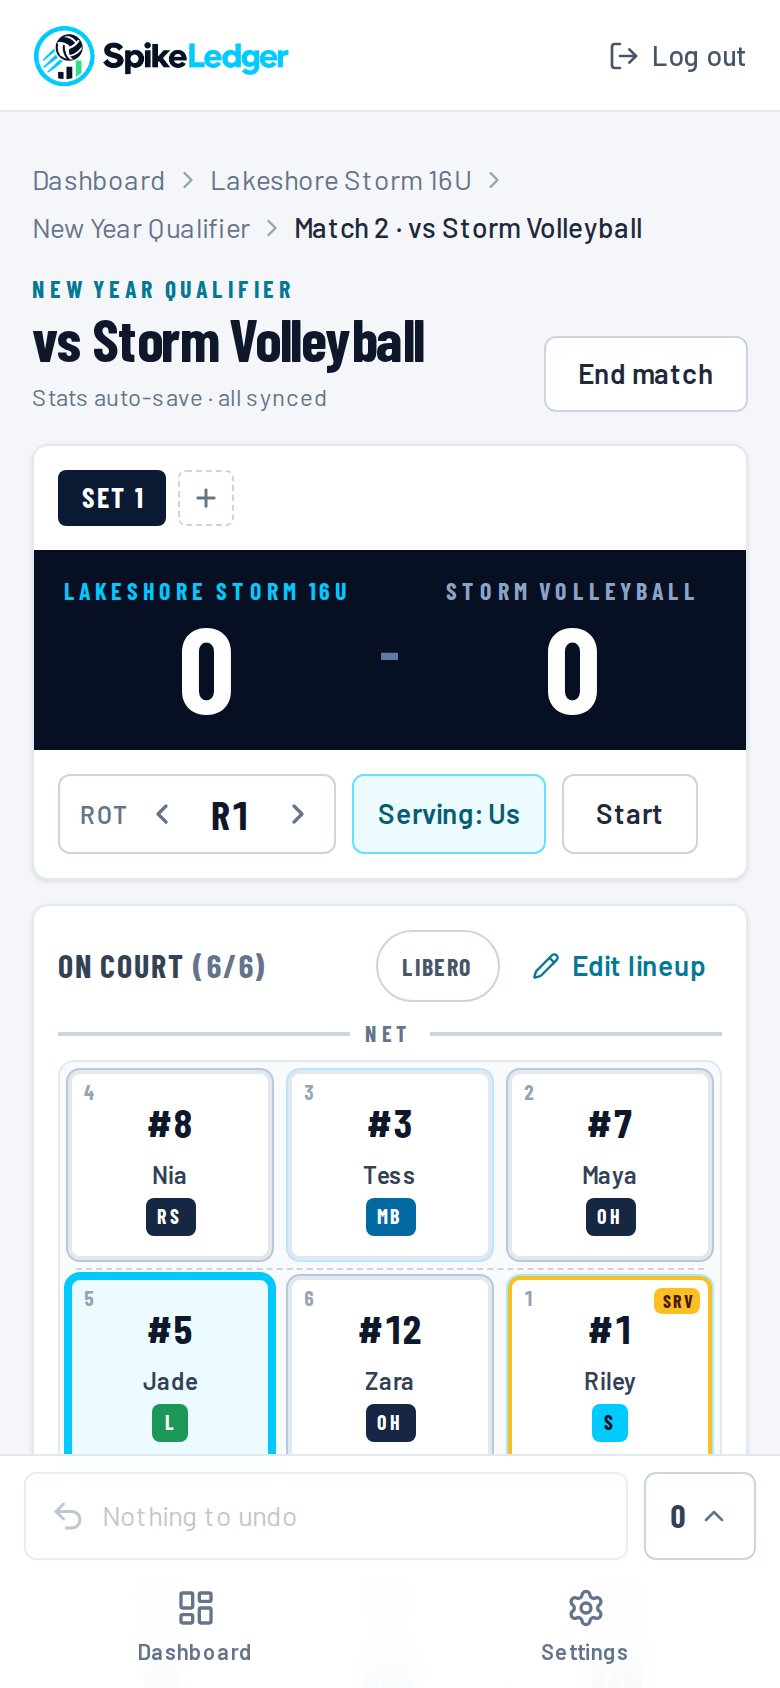
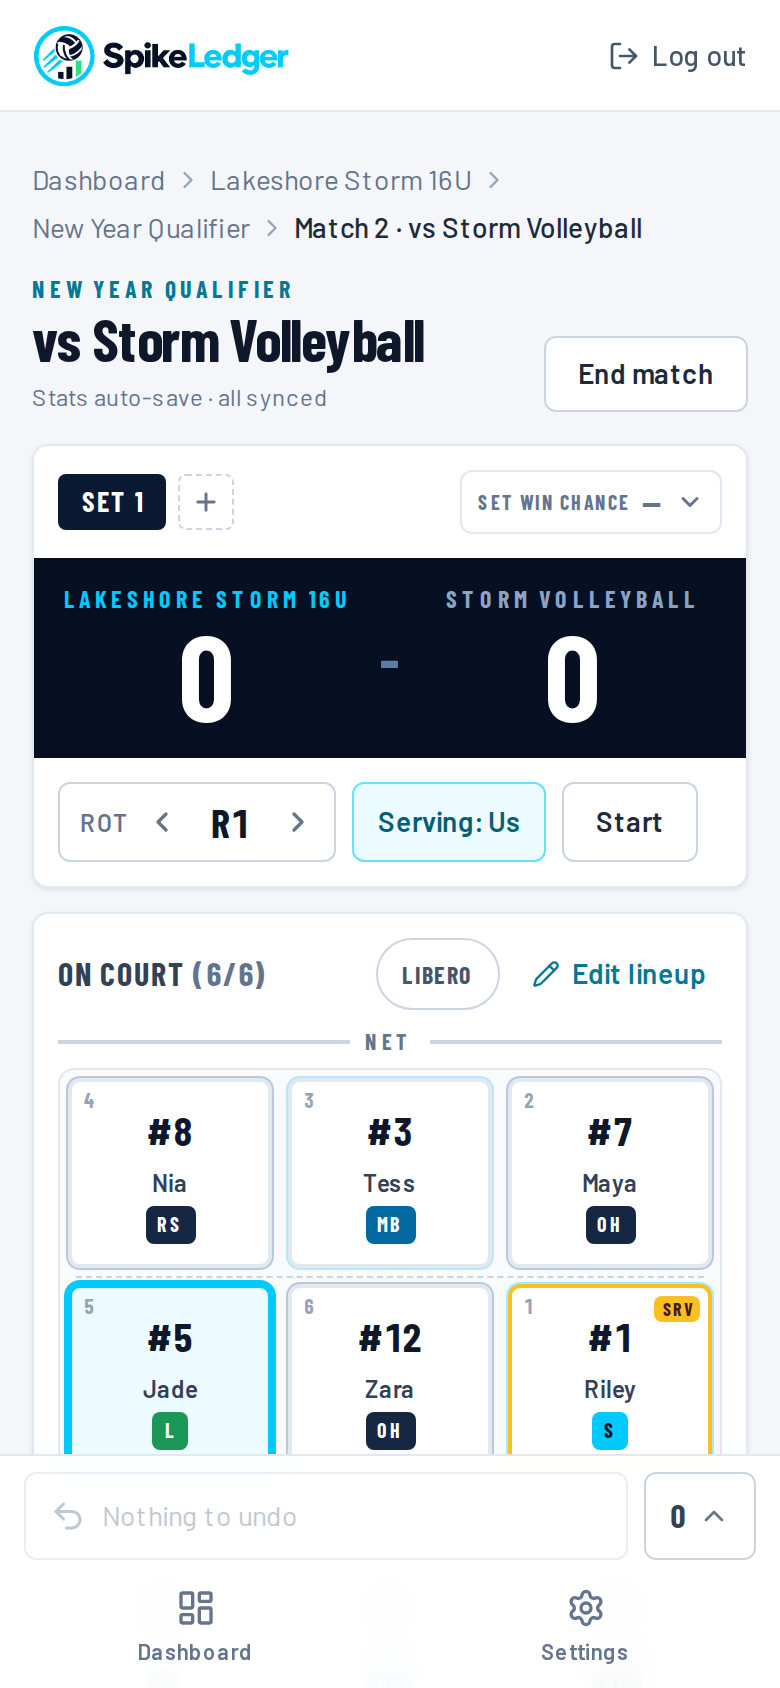
Carry the cyan/green palette to screens added after it
The palette commit was written before the parent live view, set win
probability and match alerts landed, so those screens still used orange
(which falls back to Tailwind's stock orange once the brand orange scale
is gone). Same rules as the original sweep: orange -> cyan with accent text
on white at cyan-700, the logo cyan as text on navy, emerald -> the brand
green. Landing page screenshots re-captured from the current app, so the
courtside shot includes the set win chance pill.

Claude-Session: https://claude.ai/code/session_0143Fh9qswWB5tCn9ztmFhiu

diff --git a/src/app/(parent)/parent/player/[playerId]/page.tsx b/src/app/(parent)/parent/player/[playerId]/page.tsx
@@ -96,7 +96,7 @@ export default async function ParentPlayerPage({ params }: { params: { playerId:
                   <tr>
                     <th className="eyebrow px-5 py-2 text-slate-500">Stat</th>
                     <th className="eyebrow px-3 py-2 text-right text-slate-500">Team avg</th>
-                    <th className="eyebrow px-5 py-2 text-right text-orange-700">{player.name.split(" ")[0]}</th>
+                    <th className="eyebrow px-5 py-2 text-right text-cyan-700">{player.name.split(" ")[0]}</th>
                   </tr>
                 </thead>
                 <tbody className="divide-y divide-slate-100">
@@ -112,7 +112,7 @@ export default async function ParentPlayerPage({ params }: { params: { playerId:
                       <td
                         className={cn(
                           "stat-number px-5 py-2.5 text-right text-lg font-bold",
-                          row.childWins === null ? "text-slate-900" : row.childWins ? "text-emerald-700" : "text-slate-900",
+                          row.childWins === null ? "text-slate-900" : row.childWins ? "text-green-700" : "text-slate-900",
                         )}
                       >
                         {row.child}
@@ -128,8 +128,8 @@ export default async function ParentPlayerPage({ params }: { params: { playerId:
           {view.parentFriendly && (
             <section className="mt-6 rounded-lg bg-navy-900 p-6 text-white">
               <div className="flex items-center gap-2">
-                <Lightbulb size={18} strokeWidth={2} className="text-orange-300" aria-hidden />
-                <span className="eyebrow text-orange-300">In plain English</span>
+                <Lightbulb size={18} strokeWidth={2} className="text-cyan-500" aria-hidden />
+                <span className="eyebrow text-cyan-500">In plain English</span>
               </div>
               <p className="mt-3 text-lg leading-relaxed">{view.parentFriendly}</p>
               <p className="mt-3 text-xs text-navy-300">
@@ -159,14 +159,14 @@ export default async function ParentPlayerPage({ params }: { params: { playerId:
               <ol className="mt-3 grid gap-3 sm:grid-cols-3">
                 {view.improvementAreas.map((area, i) => (
                   <li key={i} className="card p-4">
-                    <div className="stat-number text-3xl font-bold leading-none text-orange-500">
+                    <div className="stat-number text-3xl font-bold leading-none text-cyan-700">
                       {String(i + 1).padStart(2, "0")}
                     </div>
                     <div className="mt-2 font-display text-xl font-bold leading-tight text-slate-900">{area.metric}</div>
                     {(area.current !== "-" || area.target !== "-") && (
                       <div className="mt-1 text-xs text-slate-500">
                         now <span className="font-semibold text-slate-900">{area.current}</span> · goal{" "}
-                        <span className="font-semibold text-emerald-700">{area.target}</span>
+                        <span className="font-semibold text-green-700">{area.target}</span>
                       </div>
                     )}
                     <p className="mt-2 text-sm leading-relaxed text-slate-600">{area.detail}</p>
@@ -175,7 +175,7 @@ export default async function ParentPlayerPage({ params }: { params: { playerId:
                         href={youtubeSearchUrl(area.youtubeQuery)}
                         target="_blank"
                         rel="noopener noreferrer"
-                        className="mt-3 inline-flex items-center gap-1 text-sm font-semibold text-orange-700 hover:underline"
+                        className="mt-3 inline-flex items-center gap-1 text-sm font-semibold text-cyan-700 hover:underline"
                       >
                         <CirclePlay size={16} strokeWidth={2} aria-hidden />
                         Watch drill videos

diff --git a/src/components/parent/LiveMatchCard.tsx b/src/components/parent/LiveMatchCard.tsx
@@ -138,13 +138,13 @@ export function LiveMatchCard({
   const isFinal = snap.status === "final";
   const stats = snap.stats;
   const resultTone =
-    m.result === "WIN" ? "bg-emerald-50 text-emerald-700" : m.result === "LOSS" ? "bg-red-50 text-red-700" : "bg-slate-100 text-slate-600";
+    m.result === "WIN" ? "bg-green-50 text-green-700" : m.result === "LOSS" ? "bg-red-50 text-red-700" : "bg-slate-100 text-slate-600";
 
   return (
-    <section className={cn("card overflow-hidden", isLive && "border-orange-300")}>
+    <section className={cn("card overflow-hidden", isLive && "border-cyan-300")}>
       <div className={cn("flex flex-wrap items-center justify-between gap-3 px-5 py-4", isLive ? "bg-navy-950 text-white" : "border-b border-slate-200")}>
         <div>
-          <div className={cn("eyebrow", isLive ? "text-orange-300" : "text-slate-500")}>
+          <div className={cn("eyebrow", isLive ? "text-cyan-500" : "text-slate-500")}>
             {isLive ? "Happening now" : isFinal ? "Latest match" : "Next up"}
           </div>
           <div className="mt-1 font-display text-2xl font-bold leading-none">
@@ -157,8 +157,8 @@ export function LiveMatchCard({
         {isLive ? (
           <span className="inline-flex items-center gap-2 rounded-full bg-white/10 px-3 py-1 font-display text-sm font-bold uppercase tracking-widest text-white">
             <span className="relative flex h-2.5 w-2.5">
-              <span className="absolute inline-flex h-full w-full animate-ping rounded-full bg-orange-400 opacity-75" />
-              <span className="relative inline-flex h-2.5 w-2.5 rounded-full bg-orange-500" />
+              <span className="absolute inline-flex h-full w-full animate-ping rounded-full bg-cyan-400 opacity-75" />
+              <span className="relative inline-flex h-2.5 w-2.5 rounded-full bg-cyan-500" />
             </span>
             Live
           </span>
@@ -182,7 +182,7 @@ export function LiveMatchCard({
               key={s.setNumber}
               className={cn(
                 "stat-number text-base font-bold",
-                s.decided === "us" ? "text-emerald-700" : s.decided === "them" ? "text-red-700" : "text-slate-900",
+                s.decided === "us" ? "text-green-700" : s.decided === "them" ? "text-red-700" : "text-slate-900",
               )}
               title={`Set ${s.setNumber}`}
             >
@@ -297,7 +297,7 @@ function SetWinChanceBar({ current }: { current: NonNullable<LiveSnapshot["curre
           <span
             className={cn(
               "stat-number text-2xl font-bold leading-none",
-              pct === null ? "text-slate-400" : good ? "text-emerald-700" : "text-red-700",
+              pct === null ? "text-slate-400" : good ? "text-green-700" : "text-red-700",
             )}
           >
             {pct === null ? "\u2014" : `${pct}%`}
@@ -308,7 +308,7 @@ function SetWinChanceBar({ current }: { current: NonNullable<LiveSnapshot["curre
         <div className="relative h-3 flex-1 overflow-hidden rounded-full bg-slate-100" role="progressbar" aria-valuemin={0} aria-valuemax={100} aria-valuenow={pct ?? undefined} aria-label="Set win chance">
           <div className="absolute inset-y-0 left-1/2 w-px bg-slate-300" aria-hidden />
           <div
-            className={cn("h-full rounded-full transition-[width] duration-500", good ? "bg-emerald-600" : "bg-red-600")}
+            className={cn("h-full rounded-full transition-[width] duration-500", good ? "bg-green-600" : "bg-red-600")}
             style={{ width: `${pct ?? 0}%` }}
           />
         </div>

diff --git a/src/app/(parent)/parent/page.tsx b/src/app/(parent)/parent/page.tsx
@@ -95,8 +95,8 @@ export default async function ParentDashboard() {
                     {c.live?.status === "live" && (
                       <span className="inline-flex items-center gap-1.5 rounded-full bg-navy-950 px-2.5 py-1 font-display text-xs font-bold uppercase tracking-widest text-white">
                         <span className="relative flex h-2 w-2">
-                          <span className="absolute inline-flex h-full w-full animate-ping rounded-full bg-orange-400 opacity-75" />
-                          <span className="relative inline-flex h-2 w-2 rounded-full bg-orange-500" />
+                          <span className="absolute inline-flex h-full w-full animate-ping rounded-full bg-cyan-400 opacity-75" />
+                          <span className="relative inline-flex h-2 w-2 rounded-full bg-cyan-500" />
                         </span>
                         Live
                       </span>
@@ -149,10 +149,10 @@ export default async function ParentDashboard() {
                   {c.viewable ? (
                     <Link
                       href={`/parent/player/${c.player.id}`}
-                      className={cn("card card-hover block p-5", c.live?.status === "live" && "border-orange-300")}
+                      className={cn("card card-hover block p-5", c.live?.status === "live" && "border-cyan-300")}
                     >
                       {inner}
-                      <div className="mt-4 inline-flex items-center gap-1 text-sm font-semibold text-orange-700">
+                      <div className="mt-4 inline-flex items-center gap-1 text-sm font-semibold text-cyan-700">
                         Open
                         <ArrowRight size={14} strokeWidth={2} aria-hidden />
                       </div>

diff --git a/src/app/(app)/team/[id]/settings/TeamSettingsForm.tsx b/src/app/(app)/team/[id]/settings/TeamSettingsForm.tsx
@@ -116,7 +116,7 @@ export function TeamSettingsForm({ team }: { team: TeamSettings }) {
             type="checkbox"
             checked={allowParentView}
             onChange={(e) => setAllowParentView(e.target.checked)}
-            className="mt-1 h-4 w-4 accent-orange-500"
+            className="mt-1 h-4 w-4 accent-cyan-500"
           />
           <span>
             <span className="block font-semibold text-slate-900">Allow parent live view</span>
@@ -133,7 +133,7 @@ export function TeamSettingsForm({ team }: { team: TeamSettings }) {
             checked={allowParentView && notifyParentsOnStart}
             disabled={!allowParentView}
             onChange={(e) => setNotifyParentsOnStart(e.target.checked)}
-            className="mt-1 h-4 w-4 accent-orange-500"
+            className="mt-1 h-4 w-4 accent-cyan-500"
             name="notifyParentsOnStart"
           />
           <span>
@@ -161,7 +161,7 @@ export function TeamSettingsForm({ team }: { team: TeamSettings }) {
           {busy ? "Saving…" : "Save settings"}
         </button>
         {saved && (
-          <span className="inline-flex items-center gap-1 text-sm font-medium text-emerald-700">
+          <span className="inline-flex items-center gap-1 text-sm font-medium text-green-700">
             <Check size={16} strokeWidth={2.5} aria-hidden />
             Saved
           </span>

diff --git a/src/components/parent/MatchAlertsSettings.tsx b/src/components/parent/MatchAlertsSettings.tsx
@@ -99,7 +99,7 @@ export function MatchAlertsSettings({
           {state === "on" && (
             <>
               <span className="inline-flex items-center gap-1.5 font-semibold text-slate-900">
-                <Check size={16} strokeWidth={2.5} className="text-emerald-700" aria-hidden />
+                <Check size={16} strokeWidth={2.5} className="text-green-700" aria-hidden />
                 Alerts are on for this device.
               </span>
               <button type="button" onClick={disable} disabled={busy} className="btn-ghost px-2 py-1 text-xs">
@@ -163,7 +163,7 @@ export function MatchAlertsSettings({
             <span className="block font-semibold text-slate-900">Email me when a match starts if alerts are not on</span>
             <span className="block text-slate-600">
               You never get both. With alerts on, we skip the email.
-              {emailSaved && <span className="ml-2 font-medium text-emerald-700">Saved</span>}
+              {emailSaved && <span className="ml-2 font-medium text-green-700">Saved</span>}
             </span>
           </span>
         </label>

diff --git a/src/app/(app)/team/[id]/roster/page.tsx b/src/app/(app)/team/[id]/roster/page.tsx
@@ -56,7 +56,7 @@ export default async function RosterPage({
       </header>
 
       {assignPositions && (
-        <div className="mt-6 flex items-start gap-3 rounded-lg border border-orange-300 bg-orange-50 px-4 py-3 text-sm text-orange-900">
+        <div className="mt-6 flex items-start gap-3 rounded-lg border border-cyan-300 bg-cyan-50 px-4 py-3 text-sm text-cyan-900">
           <AlertTriangle size={18} strokeWidth={2} className="mt-0.5 shrink-0" aria-hidden />
           <div>
             <div className="font-semibold">This team now uses set positions.</div>

diff --git a/src/components/parent/LinkPlayerForm.tsx b/src/components/parent/LinkPlayerForm.tsx
@@ -70,7 +70,7 @@ export function LinkPlayerForm({ compact = false }: { compact?: boolean }) {
         </div>
       )}
       {linked && (
-        <div className="mt-3 inline-flex items-center gap-1.5 text-sm font-medium text-emerald-700">
+        <div className="mt-3 inline-flex items-center gap-1.5 text-sm font-medium text-green-700">
           <Check size={16} strokeWidth={2.5} aria-hidden />
           Linked to {linked}.
         </div>

diff --git a/src/app/(app)/match/[id]/entry/Scoreboard.tsx b/src/app/(app)/match/[id]/entry/Scoreboard.tsx
@@ -162,7 +162,7 @@ export function Scoreboard({
             winChance.pct === null
               ? "border-slate-200 bg-white text-slate-500"
               : winChance.pct >= 50
-                ? "border-emerald-200 bg-emerald-50 text-emerald-800"
+                ? "border-green-200 bg-green-50 text-green-800"
                 : "border-red-200 bg-red-50 text-red-800",
           )}
         >
